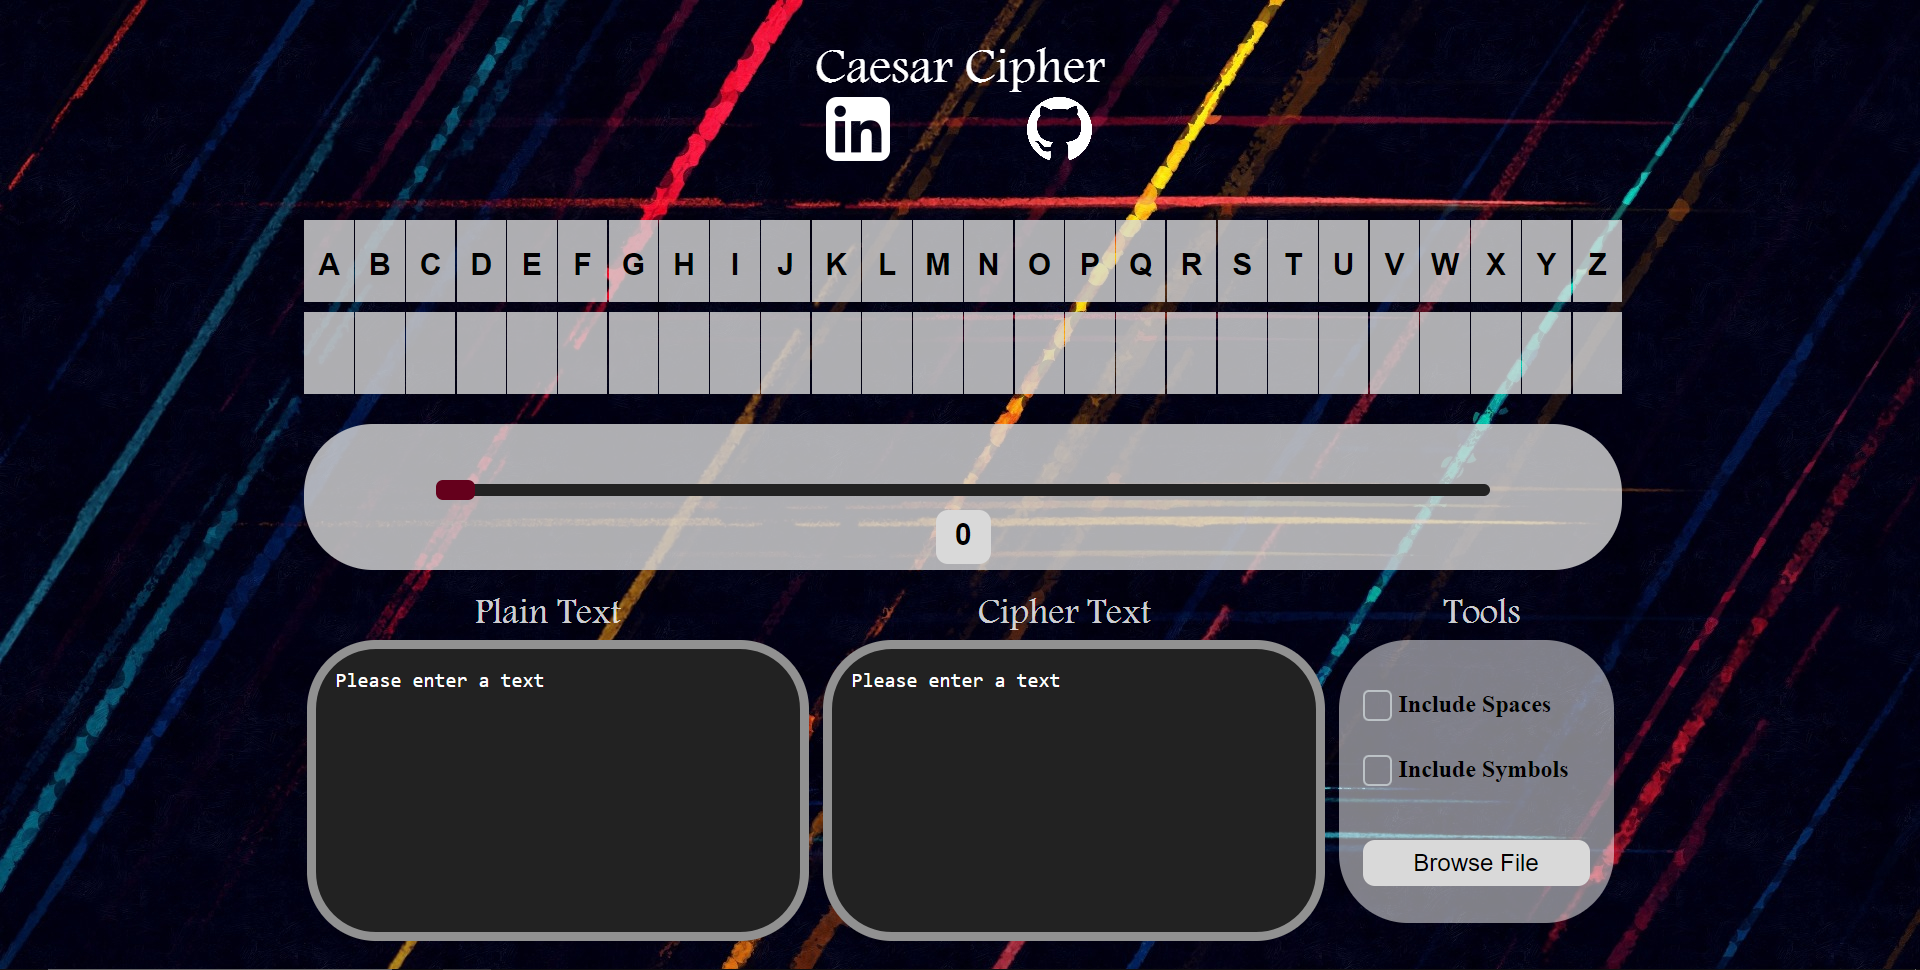
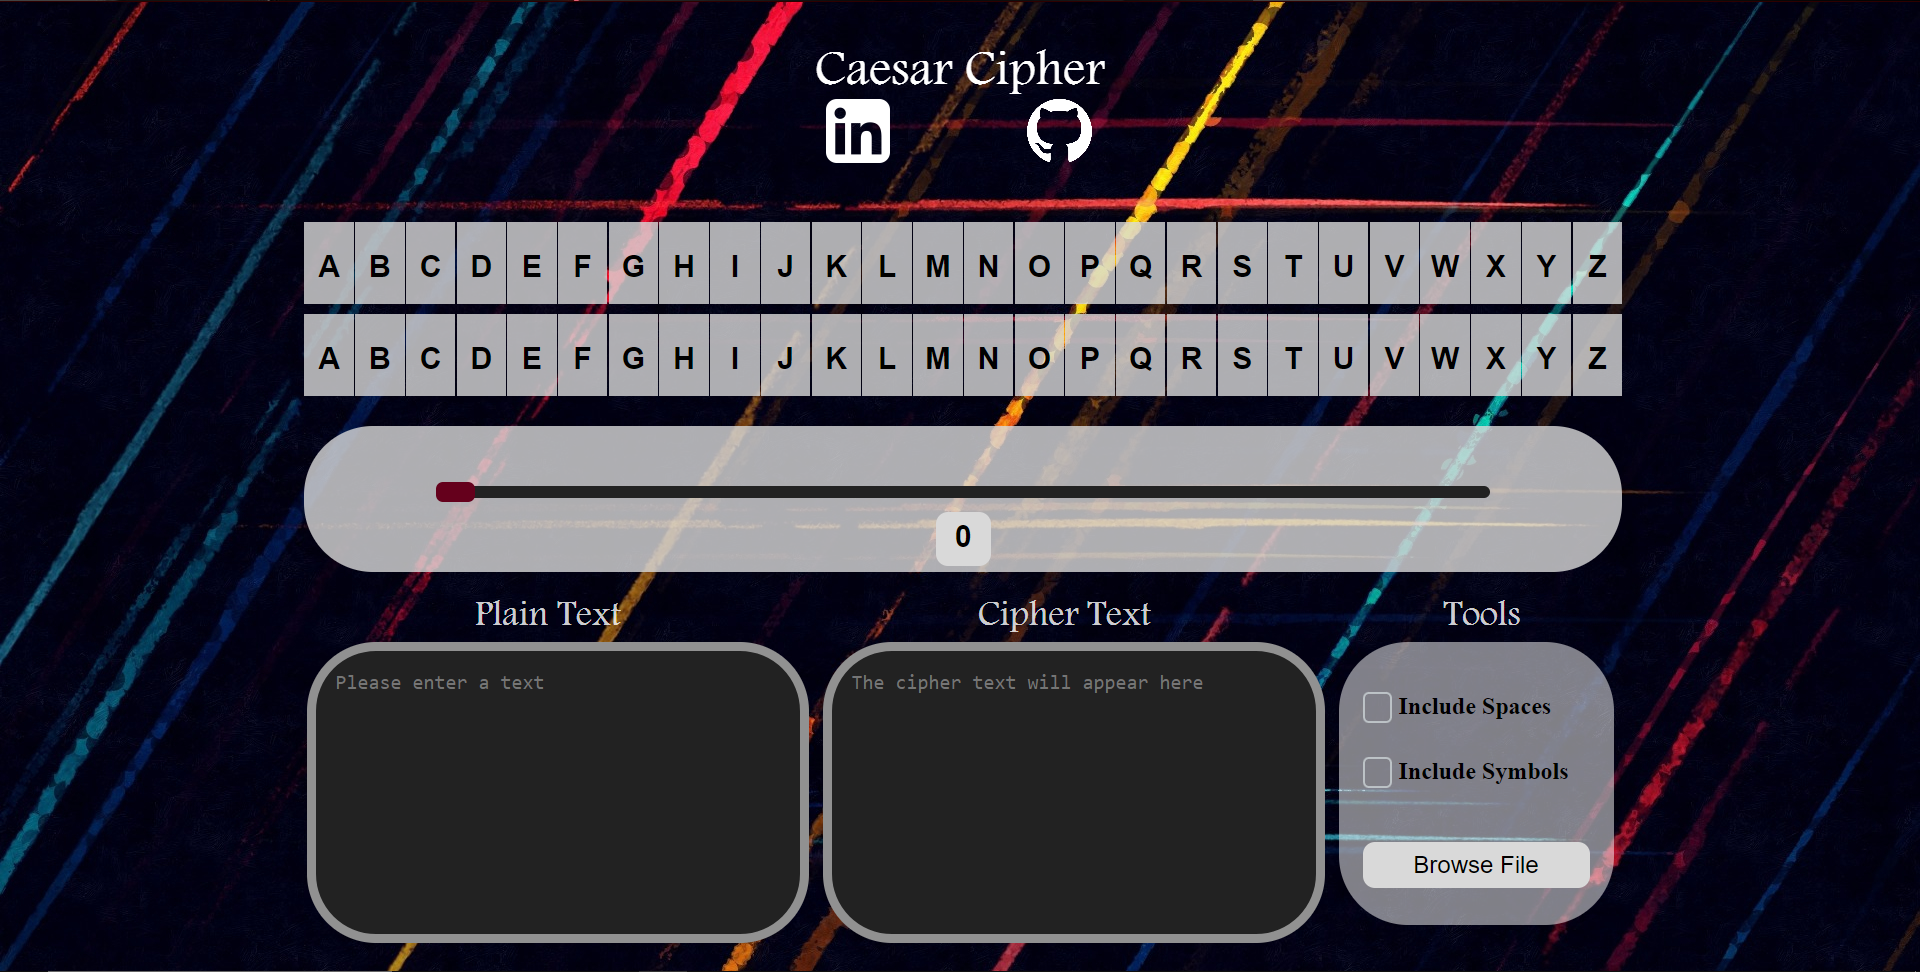
Range tag is now functioning, and encryption is implemented

diff --git a/index.html b/index.html
@@ -7,7 +7,7 @@
   <script src="script.js"></script>
 </head>
 
-<body>
+<body id="body">
   <div>
     <div class=e2_4>
       <div class=e7_59><span class="e7_15">Caesar Cipher</span>
@@ -23,8 +23,7 @@
       <div class=e8_8>
         <div class=e8_44>
           <div class="e8_18">
-            <p>A
-            <p>
+            <p>A</p>
           </div>
           <div class="e8_19">
             <p>B</p>
@@ -102,7 +101,7 @@
             <p>Z</p>
           </div>
         </div>
-        <div class=e8_80>
+        <div class=e8_80 id="cipherLetter">
           <div class="e8_81"></div>
           <div class="e8_82"></div>
           <div class="e8_83"></div>
@@ -132,9 +131,9 @@
         </div>
       </div>
       <div class="e8_7">
-        <input type="range" value="0" max="25">
+        <input type="range" value="0" max="25" id="slide" oninput="showVal(this)">
         <div class=e8_112>
-            <p>0</p>
+            <p id="slideNumber">0</p>
         </div>
       </div>
       <div class=e8_15>
@@ -145,10 +144,10 @@
         </div>
         <div class=e33_4>
           <div class="e8_11">
-            <textarea caption="Any suggestions">Please enter a text</textarea>
+            <textarea id="PlainText" placeholder="Please enter a text" oninput="PlainChange(this.value)"></textarea>
           </div>
           <div class="e8_13">
-            <textarea caption="Any suggestions">Please enter a text</textarea>
+            <textarea id="CipherText" placeholder="The cipher text will appear here"></textarea>
           </div>
           <div class="e8_14">
             <div class="e8_14_Container">

diff --git a/script.js b/script.js
@@ -1,0 +1,37 @@
+window.onload = function () {
+    var children = document.getElementById("cipherLetter").children;
+    for (var i = 0; i < children.length; i++) {
+        var child = children[i];
+        var tag = document.createElement("p");
+        var text = document.createTextNode(String.fromCharCode(65 + i));
+        tag.appendChild(text);
+        child.appendChild(tag);
+    }
+};
+
+function showVal(element) {
+    var slideNumber = document.getElementById("slideNumber");
+    slideNumber.innerHTML = element.value;
+
+    var children = document.getElementById("cipherLetter").children;
+    for (var i = 0; i < children.length; i++) {
+        var child = children[i].firstChild;
+        var temp = 65 + i + parseInt(element.value);
+        if (temp > 90)
+            temp -= 26;
+        child.innerHTML = String.fromCharCode(temp);
+    }
+}
+
+function PlainChange(PlainText){
+    var slideNumber = document.getElementById("slideNumber");
+    slideNumber=slideNumber.innerHTML;
+    var CipherText="";
+    for (var i = 0; i < PlainText.length; i++) {
+        var temp=PlainText.charAt(i).charCodeAt(0)+parseInt(slideNumber);
+        if (temp > 90)
+            temp -= 26;
+        CipherText+=String.fromCharCode(temp);
+      }
+    console.log(CipherText);
+}
